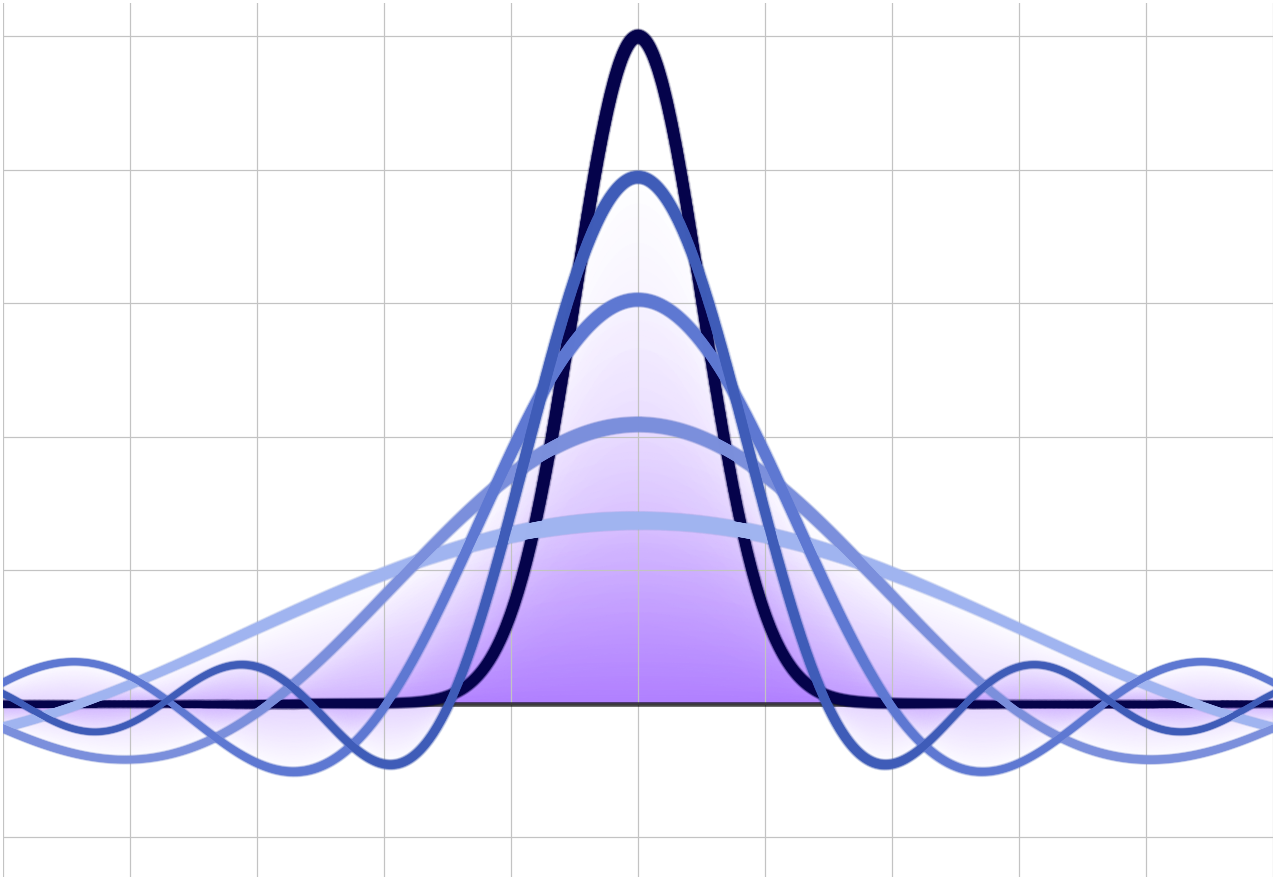
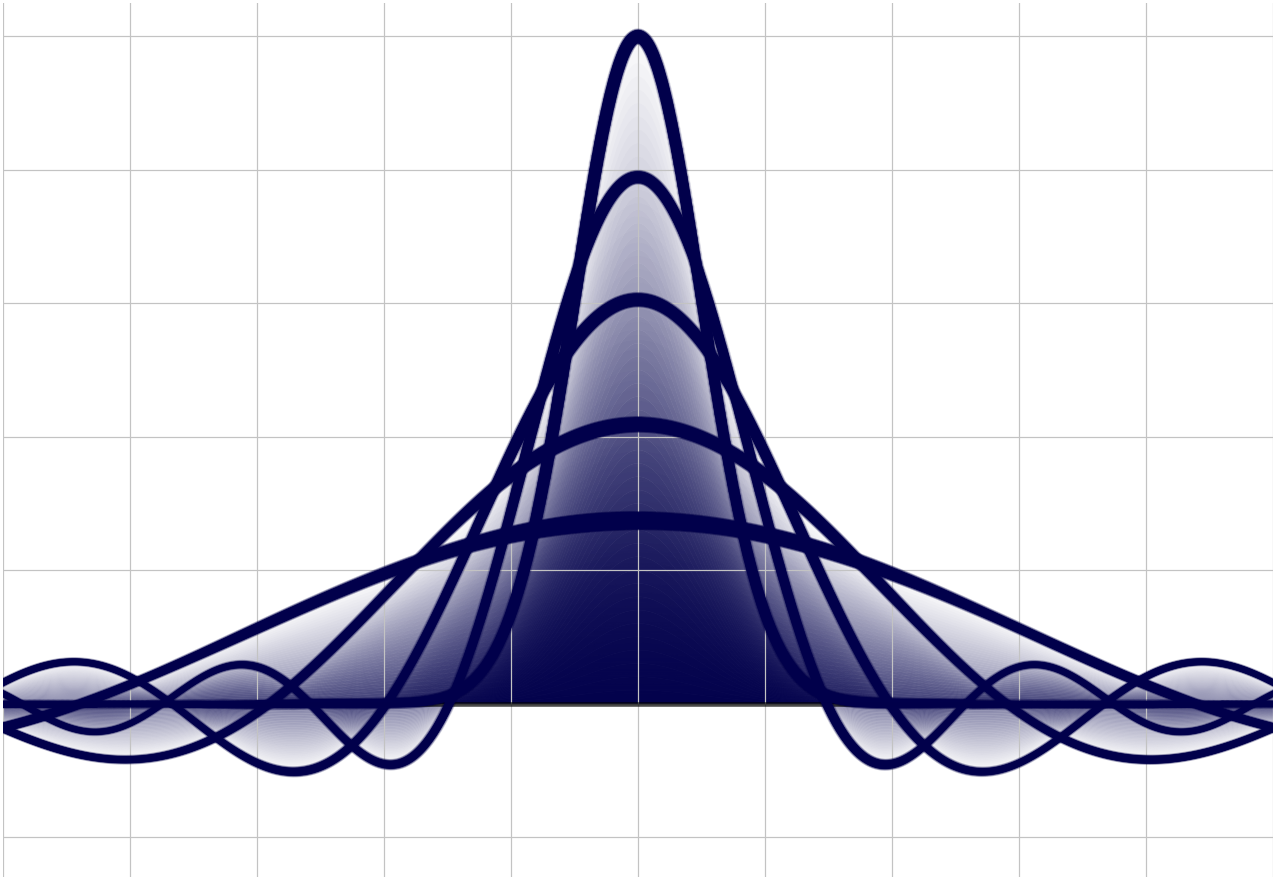
another small style improvement for the front page

Changed region(s): [[0.0, 0.1227, 1.0, 0.8898]]

diff --git a/documentation/source/_static/chebychev_signal_processing.py b/documentation/source/_static/chebychev_signal_processing.py
@@ -5,9 +5,8 @@ from matplotlib.collections import LineCollection
 from numpy.polynomial import Chebyshev
 from numpy.polynomial.chebyshev import chebval
 
-# ── Qrisp palette ──────────────────────────────────────────────────────
-QRISP_NAVY   = "#20306F"
-QRISP_PURPLE = "#7D2BFF"
+# ── Plot colour ─────────────────────────────────────────────────────────
+PLOT_COLOR = "#01004B"
 
 # ── Target: narrow Gaussian on [-1, 1] ─────────────────────────────────
 mu    = 0
@@ -26,13 +25,8 @@ x_plot     = np.linspace(-1, 1, 2000)
 f_gaussian = gaussian(x_plot)
 
 # Polynomial approximations at several degrees
-degrees = [6, 10, 16, 24, 40]
-palette = ["#A0B4F0",   # lightest – low degree
-           "#7B8FDC",
-           "#5E78D2",
-           "#3F5CB8",
-           QRISP_NAVY] # strongest – high degree
-lws     = 1.1*np.array([2.3, 2.5, 2.7, 3, 3.6])[::-1]
+degrees = [6, 10, 16, 24]
+lws     = 1.1 * np.array([3.6, 3, 2.7, 2.5, 2.3])
 
 # ── Figure ──────────────────────────────────────────────────────────────
 fig, ax = plt.subplots(figsize=(5.8, 4.), dpi=220)
@@ -129,19 +123,15 @@ def subtle_glow_line(ax, x, y, color, lw):
     )
 
 # Gradient fill under target Gaussian (subtle)
-gradient_fill(ax, x_plot, f_gaussian, QRISP_NAVY, n_bands=50, alpha_base=0.5)
+gradient_fill(ax, x_plot, f_gaussian, PLOT_COLOR, n_bands=50, alpha_base=0.8)
 # Target Gaussian on top
-subtle_glow_line(ax, x_plot, f_gaussian, "#05034B", lw=3)
+subtle_glow_line(ax, x_plot, f_gaussian, PLOT_COLOR, lw=3)
 
-i = 0
 # Polynomial curves with gradient fill (low → high degree, back-to-front)
-for deg, col, lw in zip(degrees, palette, lws):
-    if i == 4:
-        continue
-    i+=1
+for deg, lw in zip(degrees, lws):
     y = chebval(x_plot, cheb_coeffs[:deg + 1])
-    # gradient_fill(ax, x_plot, y, QRISP_PURPLE, n_bands=40, alpha_base=0.2)
-    subtle_glow_line(ax, x_plot, y, col, lw=lw)
+    gradient_fill(ax, x_plot, y, PLOT_COLOR, n_bands=40, alpha_base=0.5)
+    subtle_glow_line(ax, x_plot, y, PLOT_COLOR, lw=lw)
 
 
 
@@ -160,6 +150,6 @@ plt.tight_layout(pad=0.1)
 ax.grid(True, which="major", color=("#C3C3C3", 0.006), linewidth=0.4)
 #ax.axvline(0.0, color=("black", 0.7), linewidth=1.5, zorder=5)
 ax.axhline(0.0, color=("black", 0.7), linewidth=1.5, zorder=2)
-plt.savefig("signal_processing.png", dpi=220, facecolor="white")
+plt.savefig("chebychev_signal_processing.png", dpi=220, facecolor="white")
 plt.show()
-print("saved → signal_processing.png")
+print("saved → chebychev_signal_processing.png")
